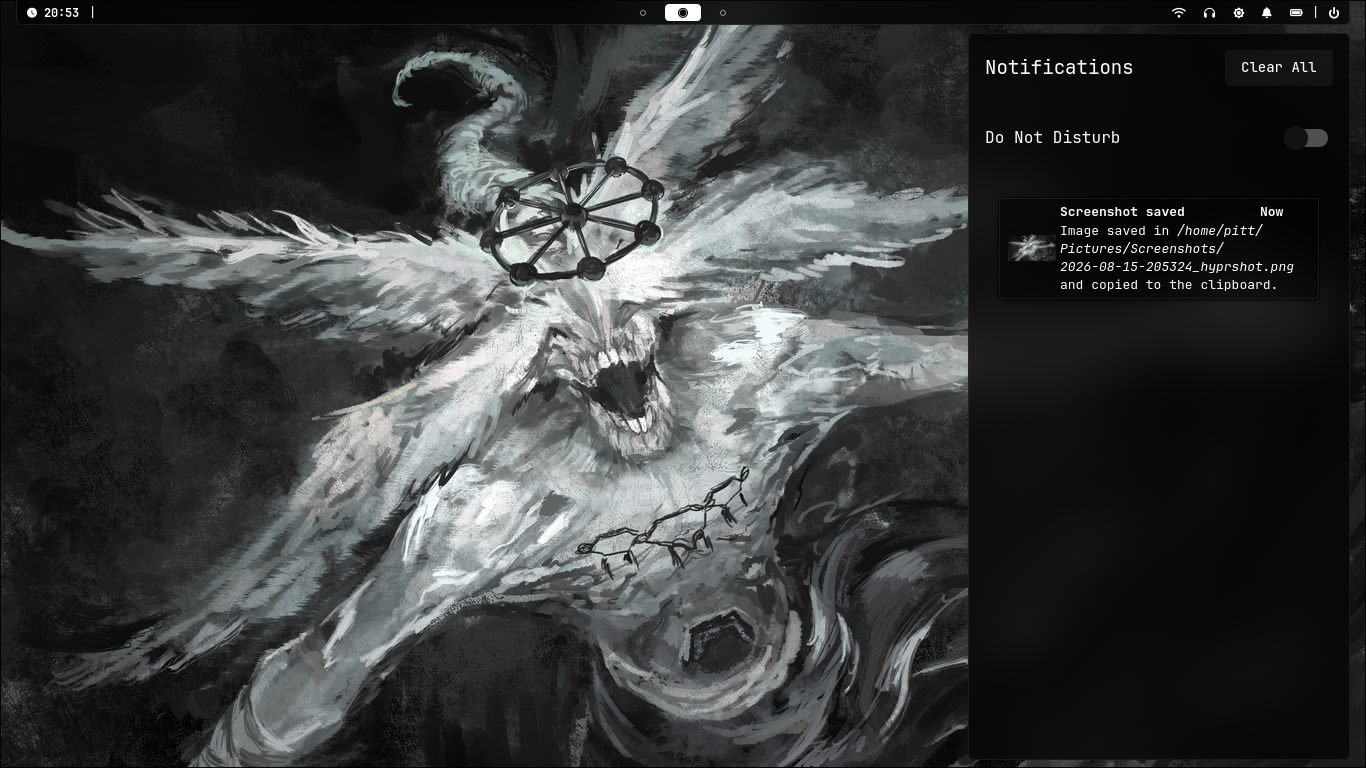
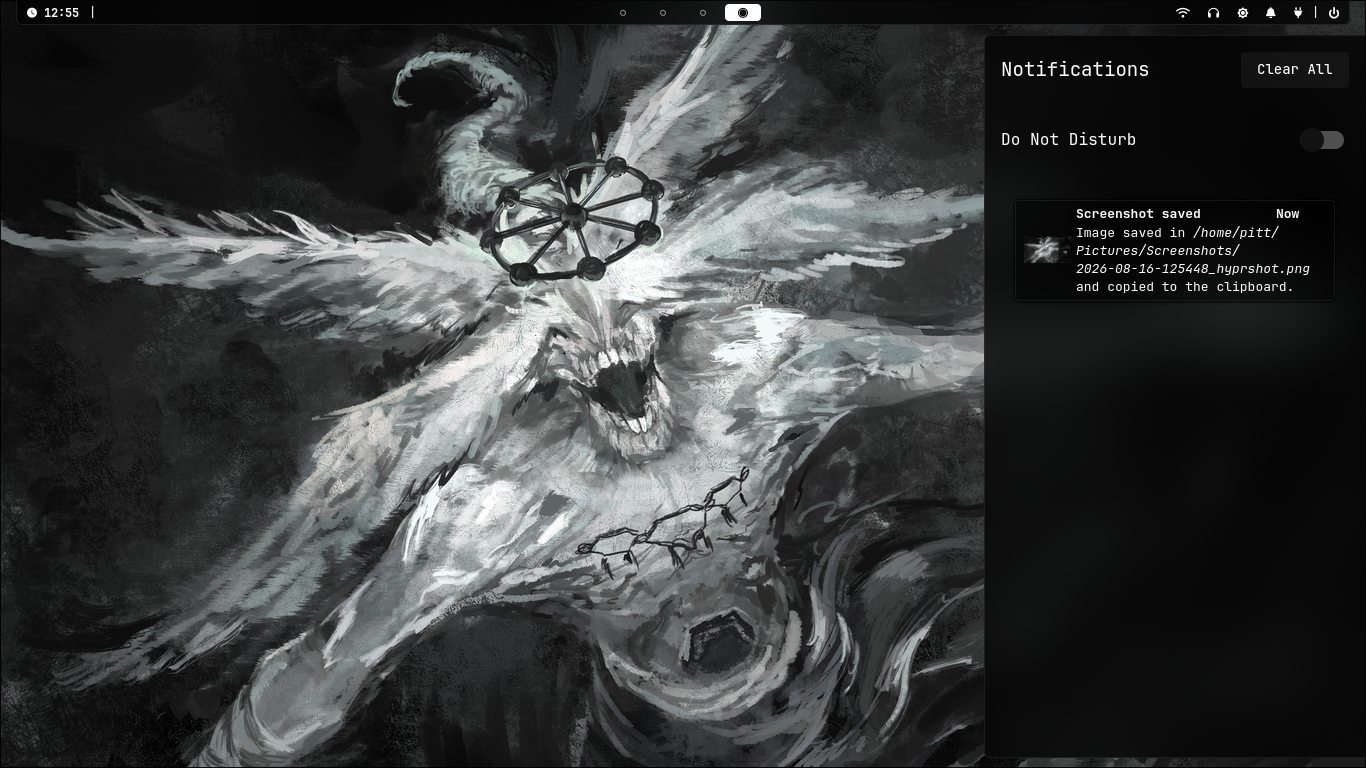
swaync update

diff --git a/config/swaync/style.css b/config/swaync/style.css
@@ -31,10 +31,31 @@ scale:focus slider {
   background: rgba(255, 255, 255, 0.15);
 }
 
+notificationwindow,
+blankwindow,
+.blank-window {
+  background: transparent;
+  font-size: 15px;
+  margin: 0px;
+}
+
+.floating-notifications {
+  background: transparent;
+  margin: 0px;
+}
+
+.floating-notifications .notification {
+  background: rgba(0, 0, 0, 0.75);
+  border: 2px solid rgba(255, 255, 255, 0.1);
+  border-radius: 6px;
+  margin: 3px;
+  padding: 6px;
+}
+
 .control-center {
   background: rgba(0, 0, 0, 0.75);
   border: 1px solid rgba(68, 68, 68, 0.3);
-  border-radius: 6px;
+  border-radius: 6px 0 0 6px;
   color: #ffffff;
 }
 
@@ -61,7 +82,7 @@ scale:focus slider {
 }
 
 .control-center .notification-row .notification-background .notification {
-  background: rgba(0, 0, 0, 0.5);
+  background: rgba(0, 0, 0, 0.5); 
 }
 
 .control-center .notification-group.collapsed .notification-row .notification {
@@ -120,27 +141,6 @@ scale:focus slider {
 
 .widget-dnd switch:checked slider {
   background: rgba(0, 0, 0, 0.8);
-}
-
-notificationwindow,
-blankwindow,
-.blank-window {
-  background: transparent;
-  font-size: 15px;
-  margin: 6px;
-}
-
-.floating-notifications {
-  background: transparent;
-  margin: 6px;
-}
-
-.floating-notifications .notification {
-  background: rgba(0, 0, 0, 0.75);
-  border: 2px solid rgba(255, 255, 255, 0.1);
-  border-radius: 6px;
-  margin: 3px;
-  padding: 6px;
 }
 
 .notification-row {
